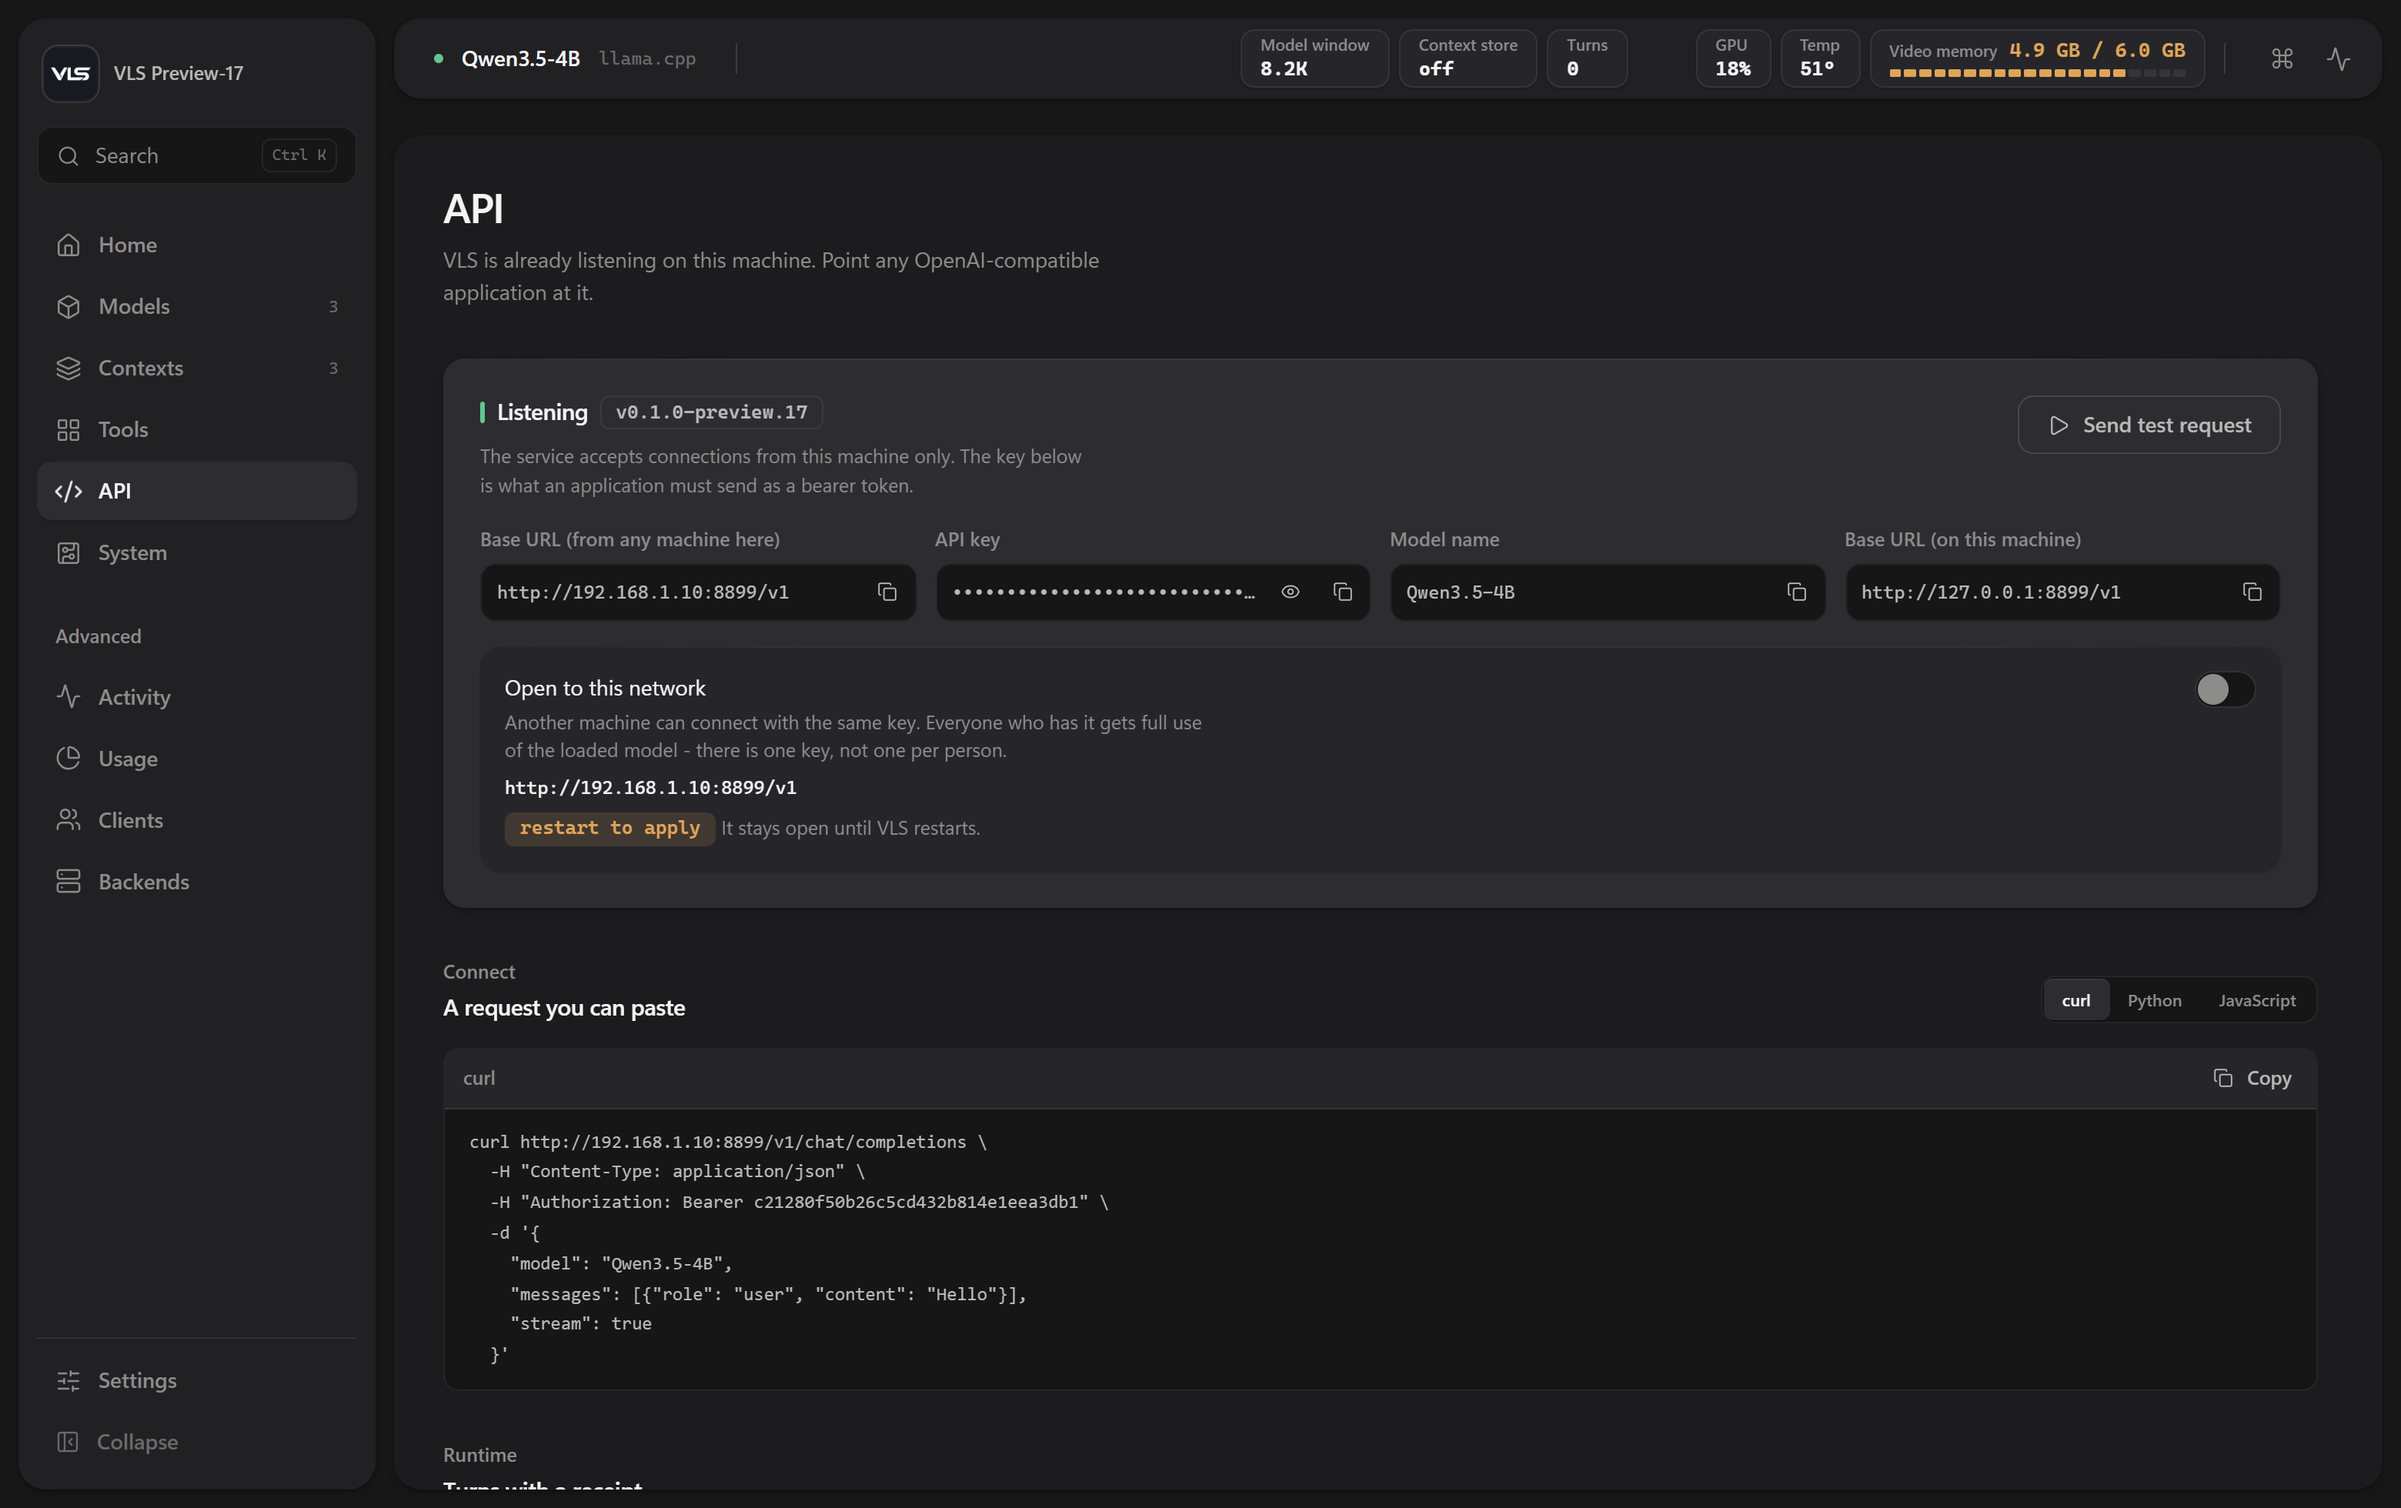
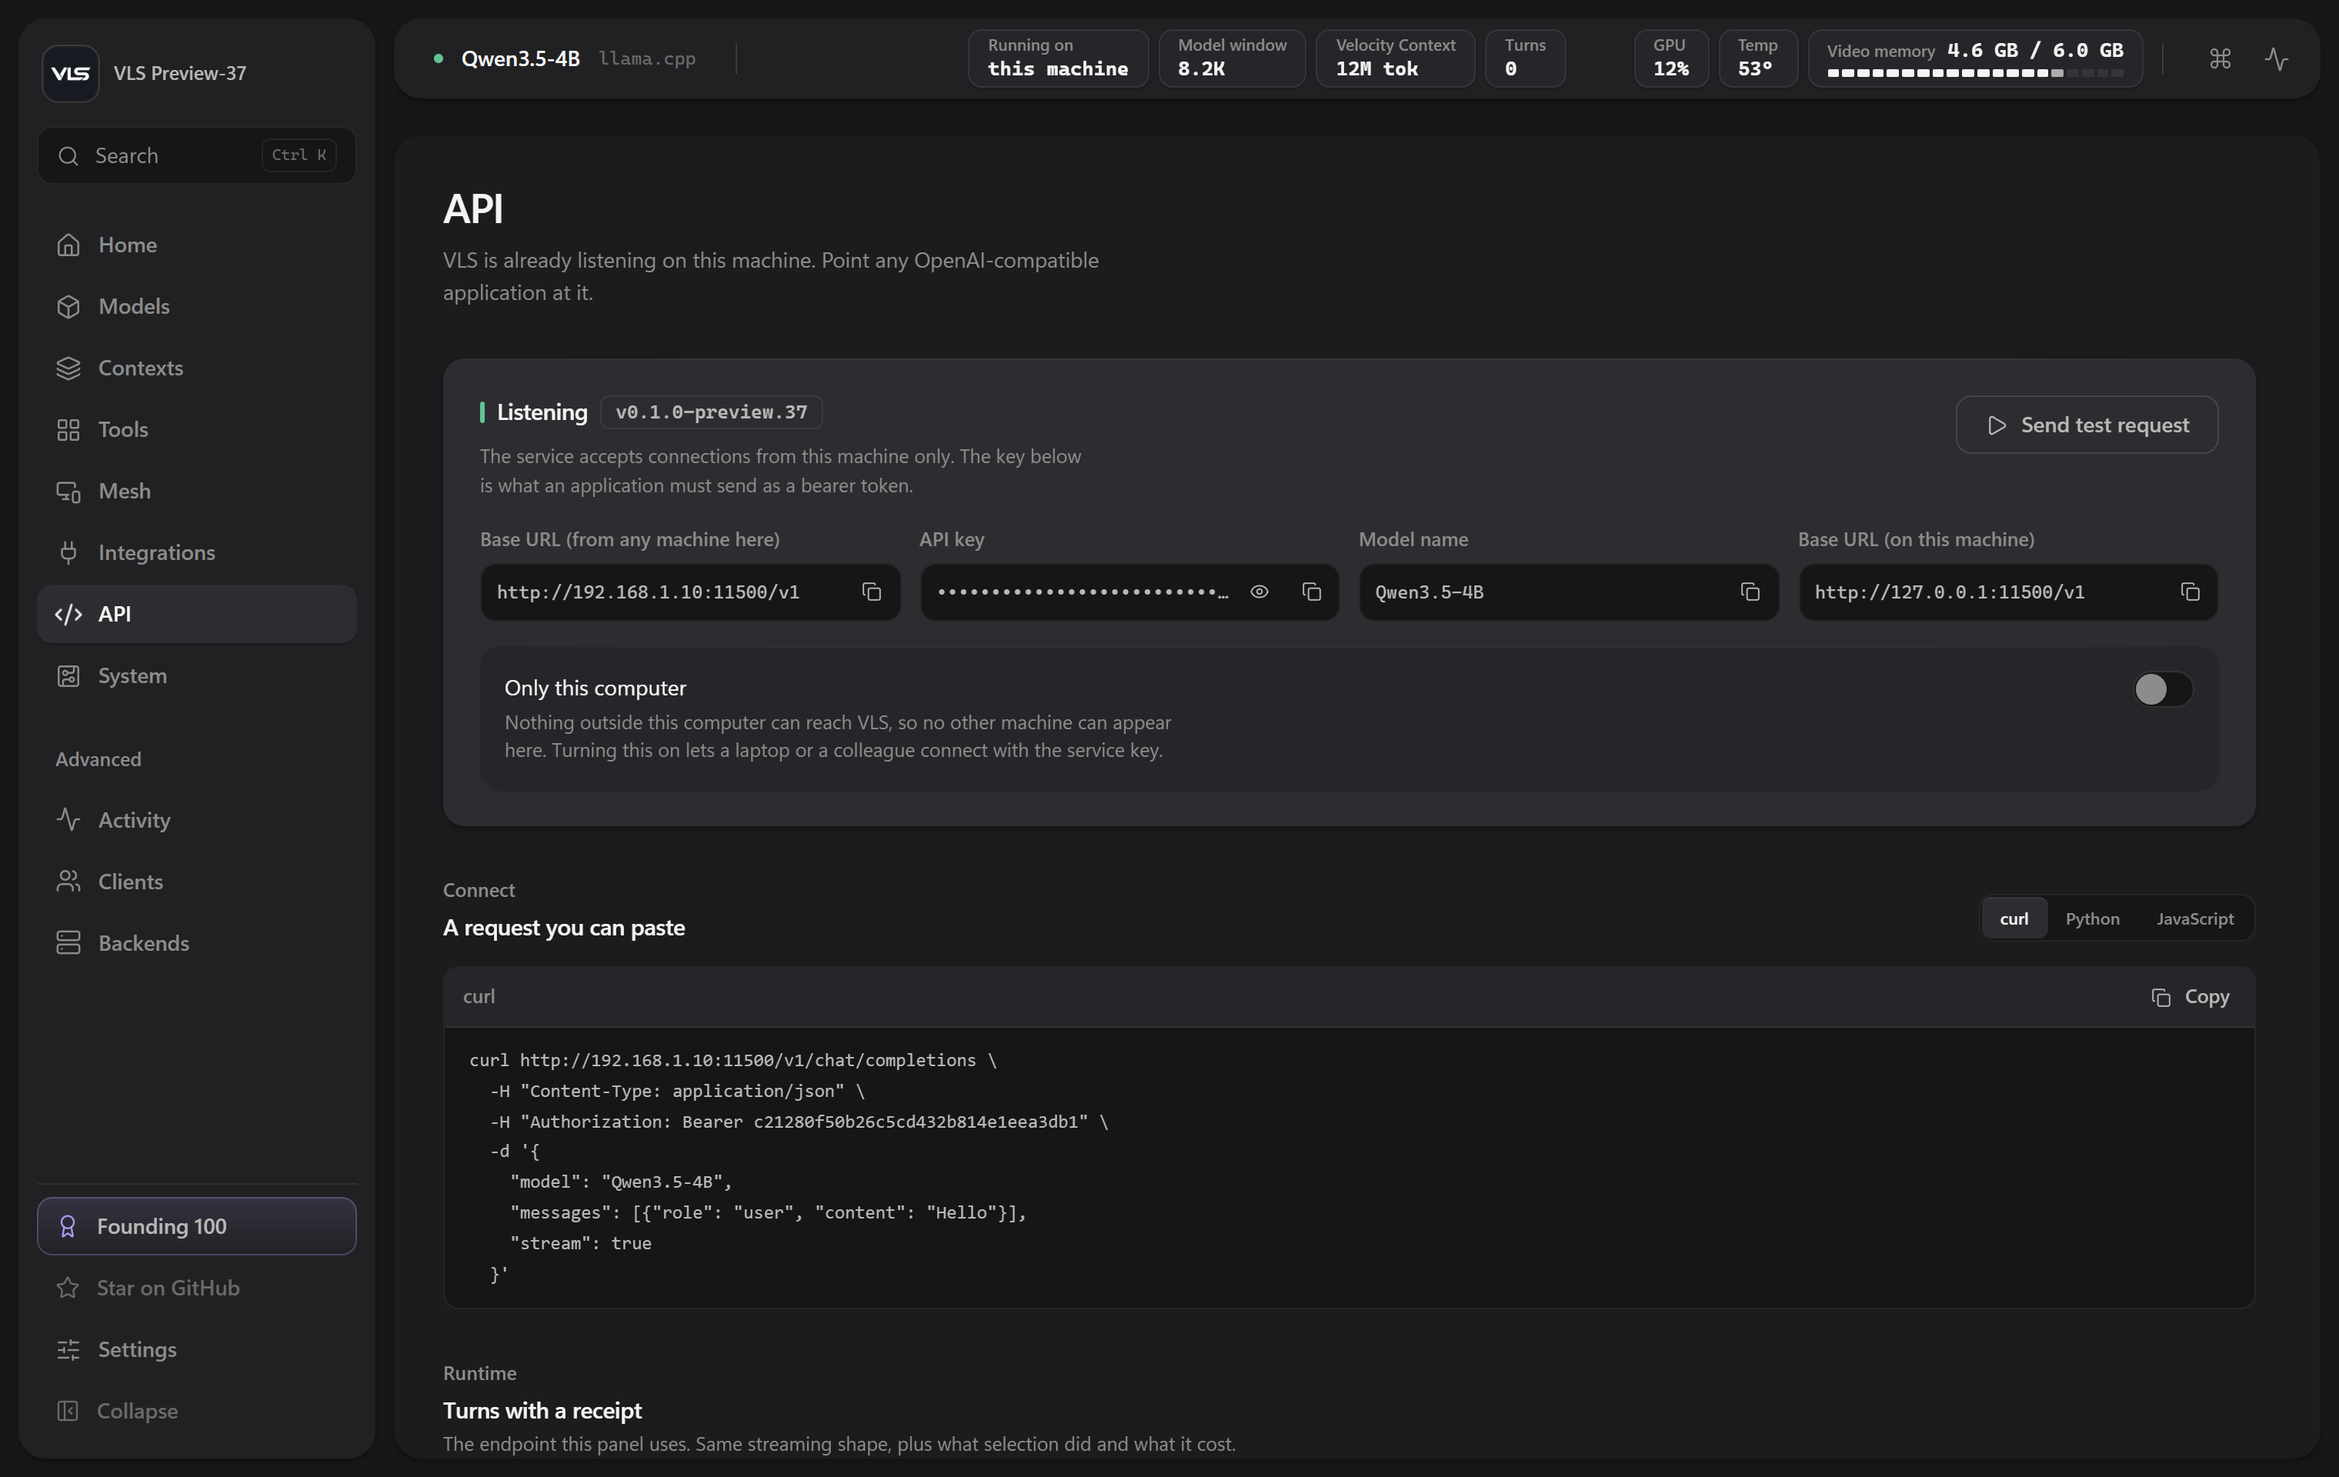
Lead with what VLS now does for Claude Code, Codex and opencode
A section of its own, before Velocity Context, because it is the thing most
people will come for: those tools can read a Velocity Context while they
work, one switch each, and VLS proves the bridge answers before the card
says Connected.

It says plainly what this is not. Their context window is unchanged and no
tool can change it. What they get is a door into a corpus of up to 32,000,000
tokens, out of which only the passages that answer a question come back - and
the figures under it were measured against the corpus in the screenshot.

New banner, in the same hand as the site: the warm ground, the grotesque, and
one italic line. Every screenshot retaken on the current build, so the panel
in the pictures is the panel that gets installed.

diff --git a/README.md b/README.md
@@ -1,6 +1,6 @@
 <div align="center">
 
-<img src=".github/banner-v2.png" alt="VLS &mdash; Velocity Context: reach 32 million tokens, execute a fraction of a percent" width="100%">
+<img src=".github/banner-v3.png" alt="VLS &mdash; a model with an 8,192-token window, answering across 32,000,000" width="100%">
 
 <br><br>
 
@@ -19,7 +19,9 @@
 
 <div align="center">
 
-**[Install](#install)** &nbsp;&middot;&nbsp; **[Velocity Context](#velocity-context)** &nbsp;&middot;&nbsp; **[Everything in it](#everything-in-it)** &nbsp;&middot;&nbsp; **[Mesh](#mesh)** &nbsp;&middot;&nbsp; **[Benchmarks](#measured-not-claimed)** &nbsp;&middot;&nbsp; **[API](#connect-anything)** &nbsp;&middot;&nbsp; **[FAQ](#questions-people-actually-ask)**
+**[Install](#install)** &nbsp;&middot;&nbsp; **[Claude Code &amp; Codex](#integrations)** &nbsp;&middot;&nbsp; **[Velocity Context](#velocity-context)** &nbsp;&middot;&nbsp; **[Everything in it](#everything-in-it)** &nbsp;&middot;&nbsp; **[Mesh](#mesh)** &nbsp;&middot;&nbsp; **[Benchmarks](#measured-not-claimed)** &nbsp;&middot;&nbsp; **[API](#connect-anything)** &nbsp;&middot;&nbsp; **[FAQ](#questions-people-actually-ask)**
+
+**[veloresearch.com/vls](https://veloresearch.com/vls)**
 
 </div>
 
@@ -133,6 +135,76 @@ what it read. The model's window never changes &mdash; it stops mattering.
 <img src=".github/home.png" alt="The VLS panel" width="960">
 <br><br>
 </div>
+
+<br>
+
+---
+
+<br>
+
+---
+
+<a name="integrations"></a>
+## Your own material, inside Claude Code
+
+<div align="center">
+<br>
+<img src=".github/integrations.png" alt="Integrations: Claude Code, Codex and opencode connected to a Velocity Context" width="100%">
+<br><br>
+</div>
+
+Claude Code, Codex and opencode can read your Velocity Context while they work. One switch per
+tool. VLS writes the connection into that tool's own settings, starts the bridge, speaks to it,
+reads its tool list back &mdash; and only then says **Connected**. Nothing to copy, no ports to type,
+no JSON to edit.
+
+They get four tools over whichever context is active:
+
+| tool | what the agent uses it for |
+|---|---|
+| `velocity_context_search` | find where something is said, and in which file |
+| `velocity_context_get` | ask a question, get back the passages that answer it |
+| `velocity_context_read` | follow a hit into the surrounding text, at any length |
+| `velocity_context_sources` | what the context is made of, and how large it is |
+
+The last two are what make it navigation rather than one lucky guess. A search returns positions;
+the agent can narrow to part of the corpus, follow a hit, and read around it &mdash; instead of being
+stuck with whatever the first retrieval happened to return.
+
+### What this is, and what it is not
+
+It does **not** give those tools a 32,000,000-token context window. Their window is whatever it
+was, and no tool can change that.
+
+What it gives them is a door into a corpus that large, out of which VLS returns only the passages
+that bear on the question:
+
+```text
+  Claude Code / Codex / opencode
+            |  asks a question
+            v
+  VLS, on this machine
+            |  selects by rarity over tokens
+            v
+  Velocity Context  -  up to 32,000,000 tokens, in a .mfyc on your disk
+            |
+            v
+  the evidence that answers  -  a few thousand tokens, back to the agent
+```
+
+Your documents never leave the machine. Only the answer to a question that was asked does, and
+every call comes back with a receipt: how much was held, how many pages were opened, how many
+tokens came back.
+
+**Measured here, against the corpus in the screenshot above** &mdash; 7,303 documents, 173,666 pages,
+**11,870,577 tokens** compiled for Qwen3.5-4B on a 6 GB laptop card:
+
+```text
+held:      11,870,577 tokens
+opened:    13 pages of 173,666        (0.0075%)
+returned:  7,490 tokens
+selection: 1,724 ms
+```
 
 <br>
 
